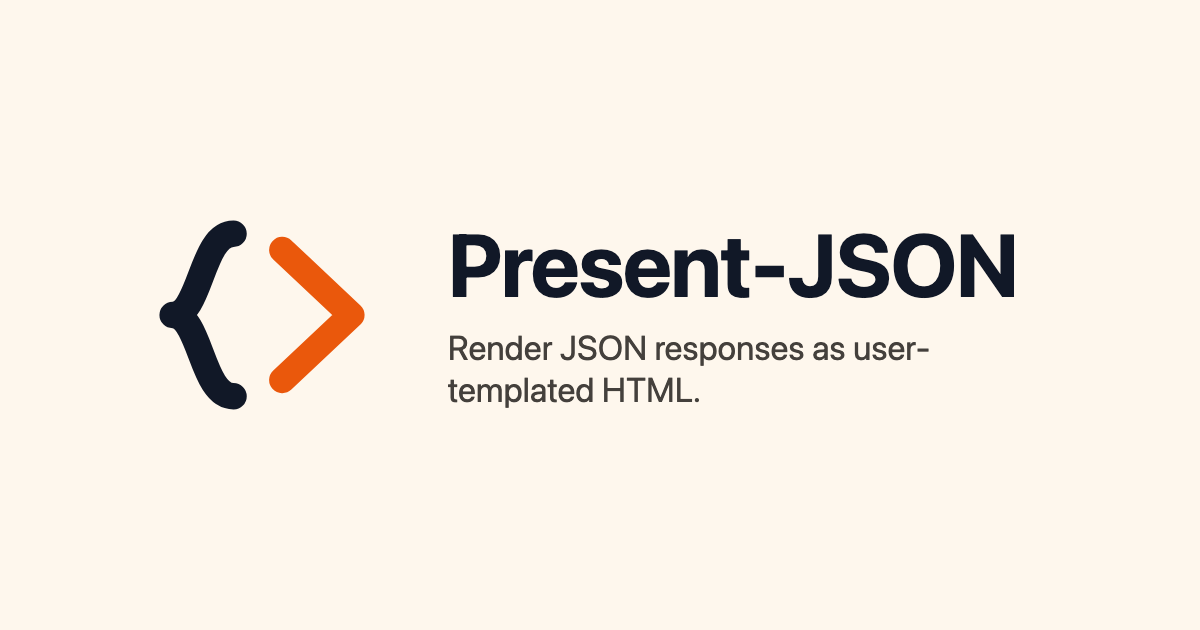
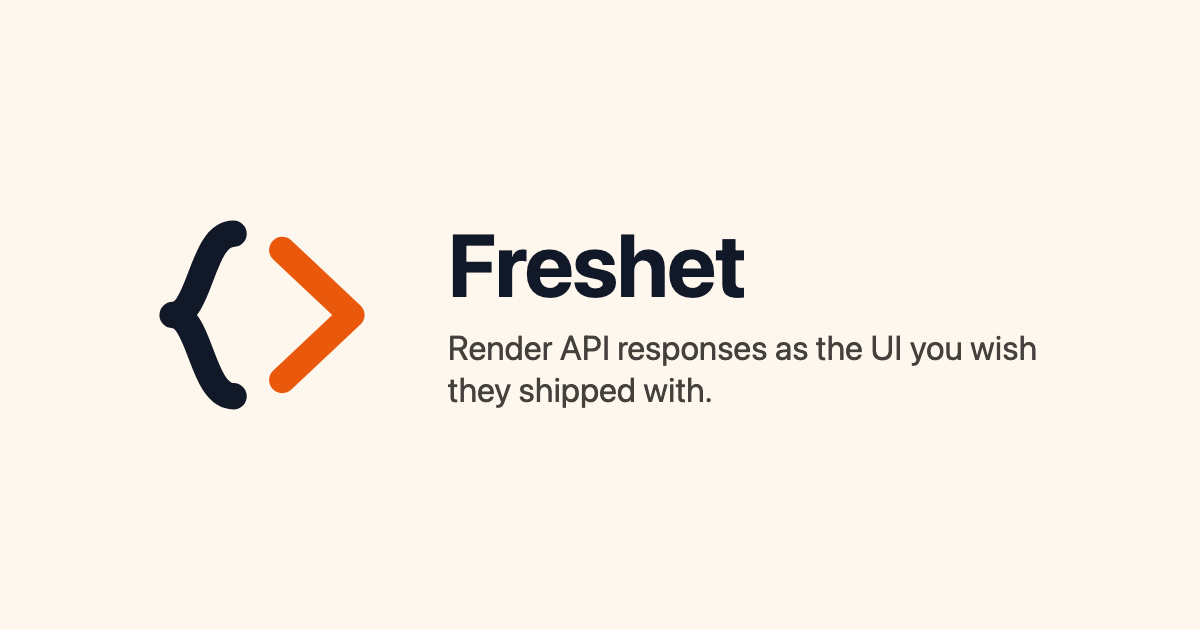
rename: Present-JSON → Freshet (manifest, UI, docs, starters, fixtures, OG image)

Changed region(s): [[0.37, 0.3619, 0.8633, 0.4825], [0.4625, 0.5127, 0.8633, 0.573], [0.37, 0.6032, 0.5858, 0.6635]]

diff --git a/src/background/background.ts b/src/background/background.ts
@@ -46,7 +46,7 @@ async function maybeStorageAreaMigration(): Promise<void> {
       await migrateSyncToLocal(chrome.storage);
     }
   } catch (err) {
-    console.warn('[present-json] storage-area migration skipped:', err);
+    console.warn('[freshet] storage-area migration skipped:', err);
   }
 }
 
@@ -58,12 +58,12 @@ async function maybeSchemaMigration(): Promise<void> {
     const result = await migrateTemplatesToV2(storage);
     if (!result.ok) {
       console.warn(
-        '[present-json] template migration rolled back; failing template IDs:',
+        '[freshet] template migration rolled back; failing template IDs:',
         result.failed,
       );
     }
   } catch (err) {
-    console.warn('[present-json] schema migration skipped:', err);
+    console.warn('[freshet] schema migration skipped:', err);
   }
 }
 

diff --git a/src/options/ShortcutsFooter.tsx b/src/options/ShortcutsFooter.tsx
@@ -60,15 +60,15 @@ export function ShortcutsFooter(): JSX.Element {
         </button>
         <nav class="pj-shortcuts-links" aria-label="Project links">
           <a
-            href="https://mattaltermatt.github.io/present-json/"
+            href="https://mattaltermatt.github.io/freshet/"
             target="_blank"
             rel="noopener noreferrer"
           >
-            Present-JSON site
+            Freshet site
             <span class="pj-ext-arrow" aria-hidden="true">↗</span>
           </a>
           <a
-            href="https://github.com/MattAltermatt/present-json"
+            href="https://github.com/MattAltermatt/freshet"
             target="_blank"
             rel="noopener noreferrer"
           >

diff --git a/src/popup/App.tsx b/src/popup/App.tsx
@@ -87,7 +87,7 @@ export function App(): JSX.Element {
           <span class="pj-logo-brace">{'{'}</span>
           <span class="pj-logo-bracket">{'>'}</span>
         </span>
-        <h1>Present-JSON</h1>
+        <h1>Freshet</h1>
       </header>
       <section class="pj-popup-url" aria-label="Active tab URL">
         <span class="pj-popup-label">Tab URL</span>
@@ -139,7 +139,7 @@ export function App(): JSX.Element {
           disabled={!tab.host}
           label={
             tab.host
-              ? `Skip Present-JSON on ${tab.host}`
+              ? `Skip Freshet on ${tab.host}`
               : 'Skip toggle unavailable on this page'
           }
         />

diff --git a/docs/_includes/head-custom.html b/docs/_includes/head-custom.html
@@ -8,7 +8,7 @@
 <meta name="theme-color" content="#ea580c">
 
 <meta property="og:type" content="website">
-<meta property="og:site_name" content="Present-JSON">
+<meta property="og:site_name" content="Freshet">
 <meta property="og:title" content="{{ page.title | default: site.title }}">
 <meta property="og:description" content="{{ page.description | default: site.description }}">
 <meta property="og:image" content="{{ '/assets/og-image.png' | absolute_url }}">

diff --git a/vite.config.ts b/vite.config.ts
@@ -4,9 +4,9 @@ import { crx, defineManifest } from '@crxjs/vite-plugin';
 
 const manifest = defineManifest({
   manifest_version: 3,
-  name: 'Present-JSON',
+  name: 'Freshet',
   version: '0.1.0',
-  description: 'Render JSON responses as user-templated HTML.',
+  description: 'Render API responses as the UI you wish they shipped with — Liquid templates, per-URL rules.',
   action: {
     default_popup: 'src/popup/popup.html',
     default_icon: {

diff --git a/src/shared/truncateUrl.test.ts b/src/shared/truncateUrl.test.ts
@@ -7,7 +7,7 @@ describe('truncateUrlMiddle', () => {
   });
 
   it('truncates the middle with an ellipsis when too long', () => {
-    const url = 'https://api.github.com/repos/MattAltermatt/present-json/issues/123';
+    const url = 'https://api.github.com/repos/MattAltermatt/freshet/issues/123';
     const out = truncateUrlMiddle(url, 40);
     expect(out.length).toBeLessThanOrEqual(40);
     expect(out).toContain('…');

diff --git a/src/starter/github-repo.html b/src/starter/github-repo.html
@@ -1,5 +1,5 @@
 {%- comment -%}
-  Present-JSON starter — "GitHub repo" summary card. Liquid syntax. Comments
+  Freshet starter — "GitHub repo" summary card. Liquid syntax. Comments
   below teach each construct in context; they're stripped at render time.
   Point a rule at `api.github.com` / `/repos/*/*` and visit e.g.
   https://api.github.com/repos/facebook/react to see it render.

diff --git a/test/e2e/popup.spec.ts b/test/e2e/popup.spec.ts
@@ -78,7 +78,7 @@ test('popup skip toggle updates hostSkipList', async () => {
   await popup.goto(`chrome-extension://${extId}/src/popup/popup.html`);
 
   await popup
-    .getByRole('switch', { name: /Skip Present-JSON on example\.com/ })
+    .getByRole('switch', { name: /Skip Freshet on example\.com/ })
     .click();
 
   const stored = await worker.evaluate(

diff --git a/src/options/Header.tsx b/src/options/Header.tsx
@@ -41,7 +41,7 @@ export function Header({ tab, onTab, themePref, onThemePref }: HeaderProps): JSX
           <span class="pj-logo-brace">{'{'}</span>
           <span class="pj-logo-bracket">{'>'}</span>
         </span>
-        <h1>Present-JSON</h1>
+        <h1>Freshet</h1>
       </div>
       <nav class="pj-tabs">
         <button

diff --git a/src/starter/internal-user.html b/src/starter/internal-user.html
@@ -1,5 +1,5 @@
 {%- comment -%}
-  Present-JSON starter — "internal user" card. Liquid syntax. Comments
+  Freshet starter — "internal user" card. Liquid syntax. Comments
   below teach each construct in context; they're stripped at render time.
   Full Liquid reference: https://liquidjs.com
 {%- endcomment -%}

diff --git a/src/options/options.html b/src/options/options.html
@@ -2,7 +2,7 @@
 <html lang="en">
   <head>
     <meta charset="utf-8" />
-    <title>Present-JSON — Options</title>
+    <title>Freshet — Options</title>
     <link rel="stylesheet" href="../ui/theme.css" />
     <link rel="stylesheet" href="./options.css" />
   </head>

diff --git a/src/options/rules/UrlTester.tsx b/src/options/rules/UrlTester.tsx
@@ -38,7 +38,7 @@ const REASONS: Record<RowState, string> = {
 };
 
 const CHIPS: string[] = [
-  'https://api.github.com/repos/MattAltermatt/present-json',
+  'https://api.github.com/repos/MattAltermatt/freshet',
   'http://127.0.0.1:4391/internal/user/1234',
 ];
 
